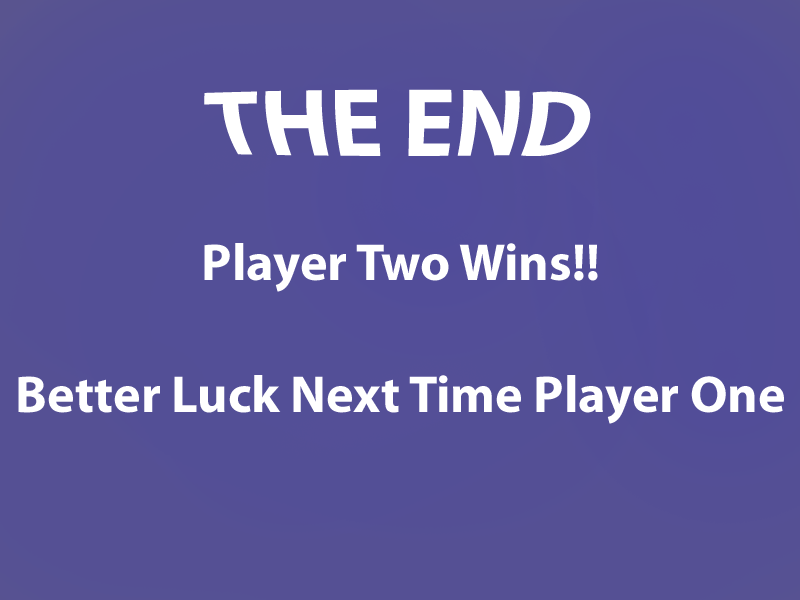
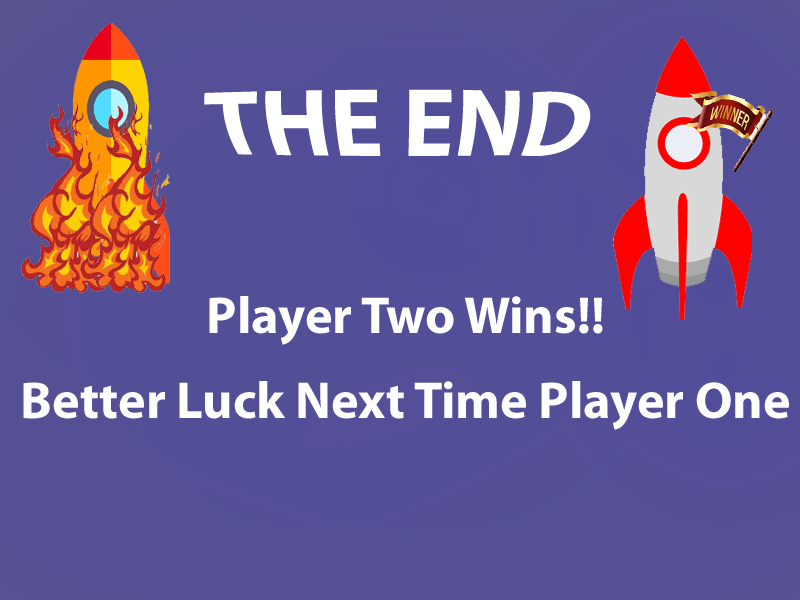
done

Changed region(s): [[0.25, 0.06, 0.9688, 0.57], [0.0, 0.63, 1.0, 0.72], [0.0312, 0.03, 0.2188, 0.51]]

diff --git a/src/player.java b/src/player.java
@@ -7,13 +7,15 @@ import org.newdawn.slick.geom.Rectangle;
 
 public class player {
 
-    private Image rocket;
+    private Image rocket, rocket2, active;
     private Rectangle hitbox;
     private int controls;
 
     public player(int x, int y, int c) throws SlickException {
         rocket = new Image("images/player.png");
+        rocket2 = new Image("images/player2.png");
         hitbox = new Rectangle(x, y, rocket.getWidth(), rocket.getHeight());
+        //active = rocket2;
         controls = c;
     }
 
@@ -22,7 +24,7 @@ public class player {
     }
 
     public boolean hit(Rectangle x) {
-        if (hitbox.intersects(x)) {
+        if (hitbox.intersects(x)) { //detecting hits
             return true;
         } else {
             return false;
@@ -32,31 +34,33 @@ public class player {
     public void move(GameContainer gc) {
         Input in = gc.getInput(); //recives information from keyboard and mouse
         if (controls == 1) {
+            //active = rocket;
             if (in.isKeyDown(Input.KEY_RIGHT) && (hitbox.getX() <= 765)) {
                 hitbox.setX(hitbox.getX() + 2);
             }
-            if (in.isKeyDown(Input.KEY_LEFT) && (hitbox.getX() >= 35)) {
+            if (in.isKeyDown(Input.KEY_LEFT) && (hitbox.getX() >= 10)) {
                 hitbox.setX(hitbox.getX() - 2);
             }
             if (in.isKeyDown(Input.KEY_UP)) {
                 hitbox.setY(hitbox.getY() - 2);
             }
-            if (in.isKeyDown(Input.KEY_DOWN)) {
+            if (in.isKeyDown(Input.KEY_DOWN)&& (hitbox.getY() <= 565)) {
                 hitbox.setY(hitbox.getY() + 2);
             }
         }
         
          if (controls == 0) {
+             //active = rocket2;
             if (in.isKeyDown(Input.KEY_D)&& (hitbox.getX() <= 765)) {
                 hitbox.setX(hitbox.getX() + 2);
             }
-            if (in.isKeyDown(Input.KEY_A)) {
+            if (in.isKeyDown(Input.KEY_A)&& (hitbox.getX() >= 10)) {
                 hitbox.setX(hitbox.getX() - 2);
             }
-            if (in.isKeyDown(Input.KEY_W) && (hitbox.getX() >= 35)) {
+            if (in.isKeyDown(Input.KEY_W)) {
                 hitbox.setY(hitbox.getY() - 2);
             }
-            if (in.isKeyDown(Input.KEY_S)) {
+            if (in.isKeyDown(Input.KEY_S) && (hitbox.getY() <= 565)) {
                 hitbox.setY(hitbox.getY() + 2);
             }
         }
@@ -67,8 +71,11 @@ public class player {
         hitbox.setY(y);
     }
 
-    public void draw() {
-        rocket.draw(hitbox.getX(), hitbox.getY());
+    public void draw(int p) {
+        if (p==0)
+            rocket.draw(hitbox.getX(), hitbox.getY());
+        else
+            rocket2.draw(hitbox.getX(), hitbox.getY());
     }
     
     public float getY(){

diff --git a/src/mainGame.java b/src/mainGame.java
@@ -21,17 +21,17 @@ public class mainGame extends BasicGameState {
     ArrayList<obstacle> rocks;
     int timer, score1 = 0, score2 = 0;
     Color pink;
-    player one;
-    player two;
+    player one, two;
     Countdown c;
-    Sounder s;
-    Sounder d;
+    Sounder s, d;
     
     public void init(GameContainer gc, StateBasedGame sbg) throws SlickException {
-       
+       //music and sounds
         s = new Sounder("backgroundmusic.wav");
         d = new Sounder("crash.wav");
         s.play();
+        
+        //
         rocks = new ArrayList();
         timer = 2000;
         obstacle.setGameSize(800, 600);
@@ -39,6 +39,7 @@ public class mainGame extends BasicGameState {
         two = new player(600,525,1);
         c = new Countdown();
         pink = new org.newdawn.slick.Color (196, 0, 151);
+        
         //locations of the rocks
         int rockloc[][] = {
             {-480, 50},
@@ -70,6 +71,7 @@ public class mainGame extends BasicGameState {
             {-835, 190},
             {-795, 370},
             {-880, 100}};
+        
         //placing the locations to the rocks
         for (int i = 0; i < rockloc.length; i++) {
             rocks.add(new obstacle(rockloc[i][0],rockloc[i][1]));
@@ -80,6 +82,7 @@ public class mainGame extends BasicGameState {
         for (obstacle a : rocks) {
             a.move();
         }
+        
         //did it crash
         for (obstacle a : rocks) {
             if (a.hit(one.getHitBox())) {
@@ -88,7 +91,6 @@ public class mainGame extends BasicGameState {
                 d.reset();
             }
         }
-        
         for (obstacle a : rocks) {
             if (a.hit(two.getHitBox())) {
                 d.play();
@@ -96,6 +98,7 @@ public class mainGame extends BasicGameState {
                 d.reset();
             }
         }
+        
         //can't move until countdown is finished
         if (c.getTime() == 0)
             one.move(gc);
@@ -130,8 +133,8 @@ public class mainGame extends BasicGameState {
             a.draw();
         }
         
-        one.draw();
-        two.draw();
+        one.draw(0);
+        two.draw(1);
         
         //score board
         g.setColor (pink);

diff --git a/src/Countdown.java b/src/Countdown.java
@@ -7,17 +7,19 @@ public class Countdown {
    private int timer;
    
    public Countdown () throws SlickException{
+       //initializing the photos
         one = new Image ("images/one.png");
         two = new Image ("images/two.png");
         three = new Image ("images/three.png");
         go = new Image ("images/go.png");
         timer=400;
-        active = three;
+        active = three; //one active photo for the different images
     }
    
    public void draw(){
-       timer = timer >0? timer-1: 0;
+       timer = timer >0? timer-1: 0; //stop timer at 0
        
+       //countdown changing the images
        if(timer >=300)
            active = three;
        else if(timer>=200)

diff --git a/src/startScreen.java b/src/startScreen.java
@@ -23,11 +23,6 @@ public class startScreen extends BasicGameState {
         if (in.isMouseButtonDown(Input.MOUSE_LEFT_BUTTON)) {
             sbg.enterState(1, new FadeOutTransition(), new FadeInTransition());
         }
-        
-
-        /*
-       if (in.isKeyDown(Input.KEY_SPACE)){}
-         */
     }
 
     public void render(GameContainer gc, StateBasedGame sbg, Graphics g) throws SlickException {

diff --git a/src/tie.java b/src/tie.java
@@ -20,8 +20,6 @@ public class tie extends BasicGameState {
 
     public void render(GameContainer gc, StateBasedGame sbg, Graphics g) throws SlickException {
        img.draw(0,0);
-       //g.setColor(Color.red);
-       //g.drawString("you tie", 100, 200);
     }
     
     public int getID() {

diff --git a/src/obstacle.java b/src/obstacle.java
@@ -32,7 +32,7 @@ public class obstacle {
     public void move(){
         hitbox.setX(hitbox.getX() + 2);
         
-        //go back to front
+        //go back to start
         if (hitbox.getX() >= 800)
             hitbox.setX(-150);
     }

diff --git a/src/Sounder.java b/src/Sounder.java
@@ -19,7 +19,6 @@ public Sounder(String f){
 
 public void play(){
     sound.start();
-   
 }
 
 public void reset(){
